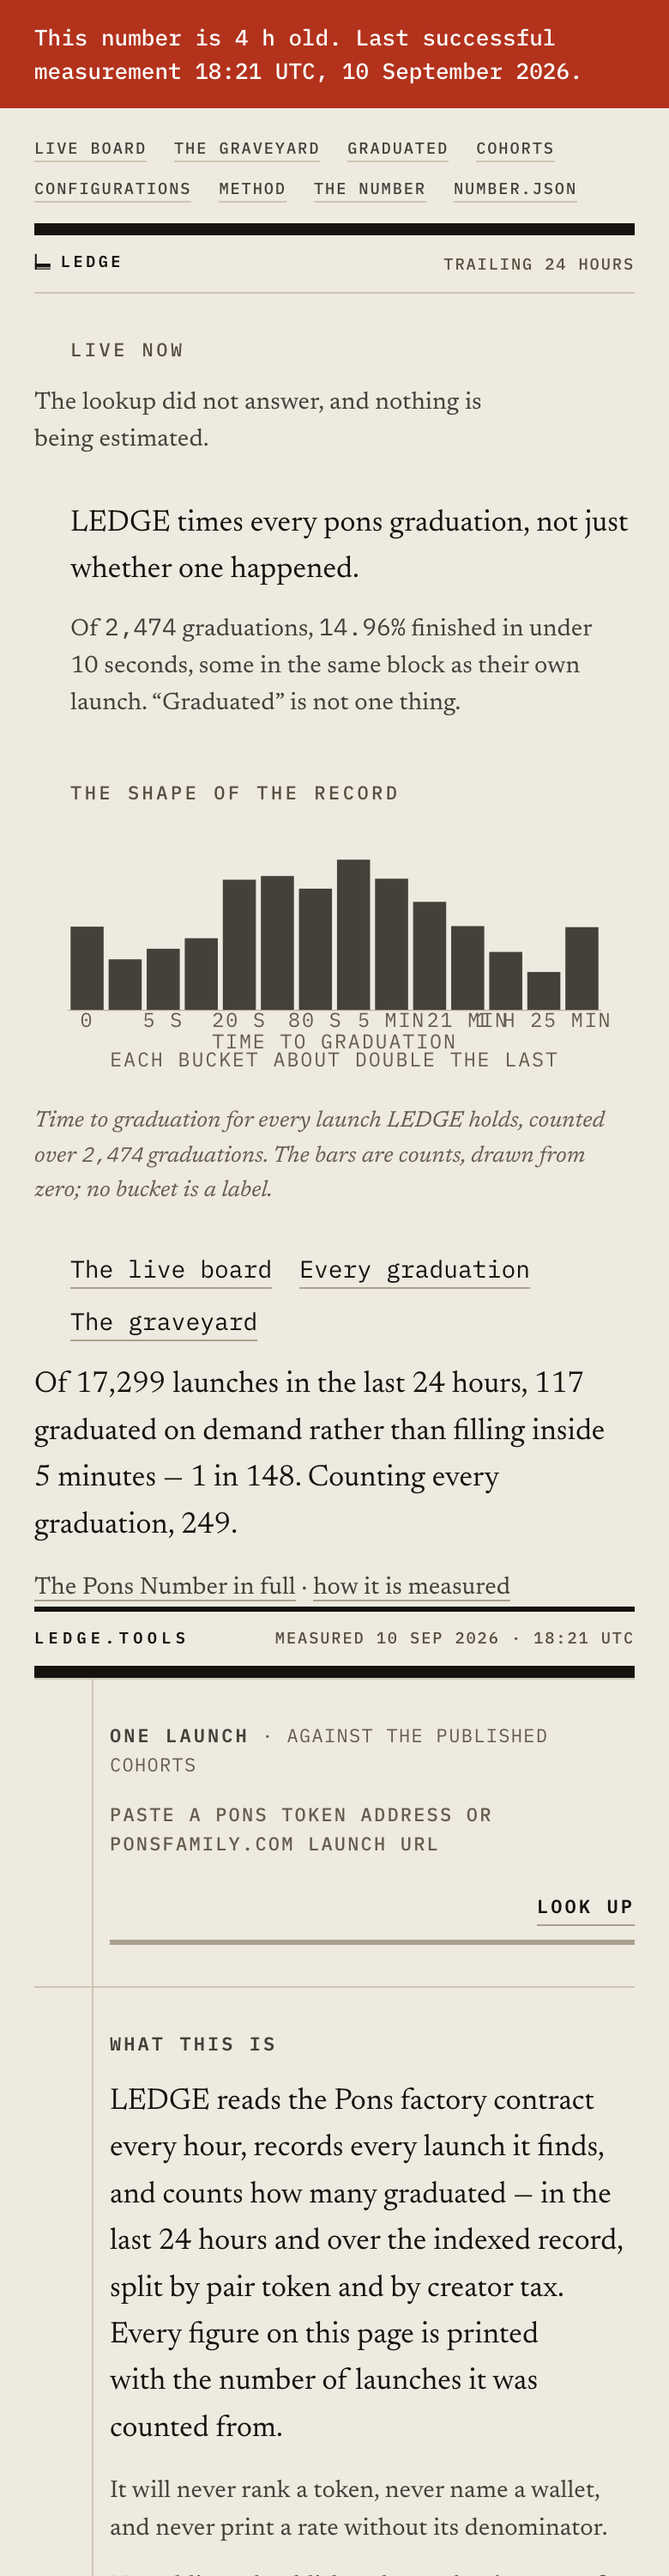
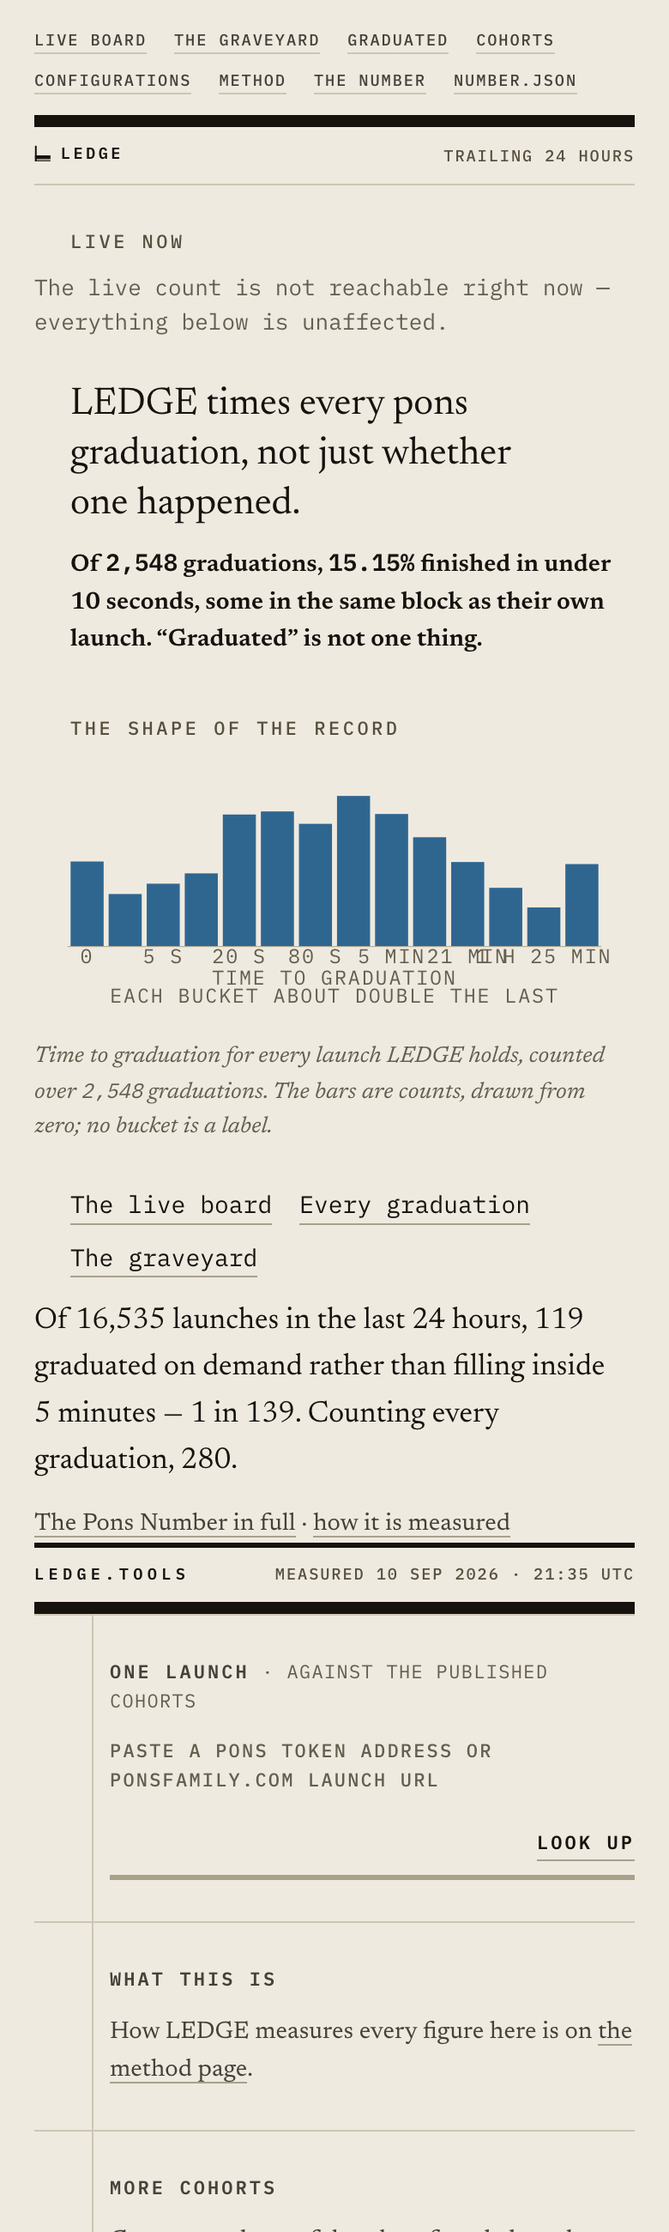
Colour the chart, promote the claim, tick when data lands

diff --git a/site/app/globals.css b/site/app/globals.css
@@ -639,9 +639,13 @@ a:focus-visible,
   max-width: 52ch;
 }
 
-/* The shape of the record. Ink, like every other mark on an instrument page:
-   the bars carry no meaning in their colour, and --stale stays the only
-   colour on this site that means anything. */
+/* The shape of the record: the one place besides the discovery register that
+   spends colour, because this chart is what proves the headline. --fill is
+   the site's single liveness/proof hue (globals.css `--fill`, see the live
+   pulse below); every bar carries it identically -- no bucket is singled out
+   as the bad one (CONSTRAINTS 6, shape.test.tsx "colours no bucket
+   differently from any other"). --stale stays the only colour that means
+   "not current". */
 .shape {
   margin: var(--s-4) 0 0;
 }
@@ -651,7 +655,60 @@ a:focus-visible,
   height: auto;
 }
 .shape-bar {
-  fill: var(--ink-2);
+  fill: var(--fill);
+}
+
+/* A one-time entrance on load: bars grow from a zero baseline, the same
+   baseline the height math already draws from, so the animation cannot say
+   anything the numbers don't. Staggered ~40ms per bar and capped so the
+   whole run lands inside ~500ms even at the histogram's full bucket count
+   (pipeline/stats.py HISTOGRAM_EDGES, 14 edges). No inline style and no
+   per-bucket class -- the stagger is nth-child only, so shape.test.tsx's
+   "class is exactly shape-bar, no fill or style attribute" holds. */
+@media (prefers-reduced-motion: no-preference) {
+  .shape-bar {
+    animation: shape-grow 140ms cubic-bezier(0.2, 0.6, 0.2, 1) both;
+    transform-box: fill-box;
+    transform-origin: bottom;
+  }
+  @keyframes shape-grow {
+    from {
+      transform: scaleY(0);
+    }
+    to {
+      transform: scaleY(1);
+    }
+  }
+  .shape-bar:nth-child(1) {
+    animation-delay: 0ms;
+  }
+  .shape-bar:nth-child(2) {
+    animation-delay: 40ms;
+  }
+  .shape-bar:nth-child(3) {
+    animation-delay: 80ms;
+  }
+  .shape-bar:nth-child(4) {
+    animation-delay: 120ms;
+  }
+  .shape-bar:nth-child(5) {
+    animation-delay: 160ms;
+  }
+  .shape-bar:nth-child(6) {
+    animation-delay: 200ms;
+  }
+  .shape-bar:nth-child(7) {
+    animation-delay: 240ms;
+  }
+  .shape-bar:nth-child(8) {
+    animation-delay: 280ms;
+  }
+  .shape-bar:nth-child(9) {
+    animation-delay: 320ms;
+  }
+  .shape-bar:nth-child(n + 10) {
+    animation-delay: 360ms;
+  }
 }
 
 .eng-line,
@@ -1360,11 +1417,58 @@ footer {
   display: block;
   font-family: var(--font-display);
   font-weight: 400;
-  font-size: clamp(2.25rem, 8vw, 3.75rem);
+  font-size: clamp(2.75rem, 10vw, 4.5rem);
   line-height: 0.9;
   letter-spacing: -0.01em;
   color: var(--fill);
 }
+/* No animation on the figures, deliberately.
+
+   A shallow opacity breathe was tried here and removed. A number that fades
+   out and back for ever does not read as live; it reads as loading, or as
+   something failing to settle, and on a page whose whole argument is that its
+   figures are trustworthy that is the wrong association to hand a stranger in
+   their first two seconds.
+
+   These numbers are already alive in the only way that means anything: they
+   change, every fifteen seconds, because the board behind them refetched. The
+   liveness cue is the dot beside the timestamp, which ticks when a fetch lands
+   -- motion that carries information rather than motion applied to a number
+   that is doing nothing at that moment. */
+/* The tick: a small mark that flashes once when a fetch lands with newer data,
+   keyed on the measurement's own timestamp. It is the liveness cue for the
+   whole block. At rest it sits quiet at the accent colour; when it remounts it
+   plays once and stops. Readers who have asked not to see motion get the mark
+   without the flash, which still reads correctly as a live indicator. */
+.pulse-tick {
+  display: inline-block;
+  width: 0.4em;
+  height: 0.4em;
+  margin-right: 0.5em;
+  border-radius: 50%;
+  background: var(--fill);
+  vertical-align: 0.05em;
+}
+@media (prefers-reduced-motion: no-preference) {
+  .pulse-tick {
+    animation: pulse-tick 900ms cubic-bezier(0.2, 0.6, 0.2, 1) 1;
+  }
+  @keyframes pulse-tick {
+    0% {
+      opacity: 0.25;
+      transform: scale(0.6);
+    }
+    18% {
+      opacity: 1;
+      transform: scale(1.25);
+    }
+    100% {
+      opacity: 1;
+      transform: scale(1);
+    }
+  }
+}
+
 .pulse-caption {
   font-family: var(--font-body);
   font-size: var(--fs-note);
@@ -1391,14 +1495,16 @@ footer {
 }
 .capability-line {
   font-family: var(--font-body);
-  font-size: var(--fs-lede);
+  font-size: 1.4rem;
+  line-height: 1.3;
   color: var(--ink);
   text-wrap: pretty;
 }
 .capability-facts {
   font-family: var(--font-body);
   font-size: var(--fs-note);
-  color: var(--ink-2);
+  font-weight: 600;
+  color: var(--ink);
   margin-top: var(--s-2);
   text-wrap: pretty;
 }

diff --git a/site/components/Live.tsx b/site/components/Live.tsx
@@ -114,8 +114,7 @@ export function LivePulse(): ReactElement {
   if (result !== null && result.kind === "error") {
     return (
       <p className="pulse-quiet">
-        The live count is not reachable right now. Every figure below is from the last
-        indexed measurement and is unaffected.
+        The live count is not reachable right now — everything below is unaffected.
       </p>
     );
   }
@@ -145,6 +144,14 @@ export function LivePulse(): ReactElement {
           <span className="mono is-stale">the live index has not run recently</span>
         ) : (
           <>
+            {/* The one piece of motion on this block, and it carries
+                information rather than decorating a number: the key is the
+                measurement's own timestamp, so React remounts this span and
+                replays its animation exactly when a fetch lands with newer
+                data, and not otherwise. A reader watching sees the tick and
+                knows something arrived. Nothing animates while nothing is
+                happening. Purely decorative, so it is aria-hidden. */}
+            <span key={body.observedAt} className="pulse-tick" aria-hidden="true" />
             as of <span className="mono">{formatAge(ageSeconds)}</span> ago · updates every 15s
           </>
         )}
@@ -265,15 +272,6 @@ export function LiveBoardFull(): ReactElement {
 
       {body !== null ? (
         <>
-          <p className="note note--fine">
-            {formatCount(body.count)} tokens with activity in this window · sorted by{" "}
-            {SORT_LABEL[body.sortedBy]}
-            {" · "}
-            <span className={body.live.stale ? "mono is-stale" : "mono"}>
-              observed {formatAge(Math.max(0, Math.round((Date.now() - Date.parse(body.observedAt)) / 1000)))} ago
-            </span>
-          </p>
-          {stalenessNote(body)}
           <div className="scroller" tabIndex={0} role="group" aria-label="Every curve with activity, sortable">
             <table>
               <caption>
@@ -322,6 +320,15 @@ export function LiveBoardFull(): ReactElement {
               </tbody>
             </table>
           </div>
+          <p className="note note--fine">
+            {formatCount(body.count)} tokens with activity in this window · sorted by{" "}
+            {SORT_LABEL[body.sortedBy]}
+            {" · "}
+            <span className={body.live.stale ? "mono is-stale" : "mono"}>
+              observed {formatAge(Math.max(0, Math.round((Date.now() - Date.parse(body.observedAt)) / 1000)))} ago
+            </span>
+          </p>
+          {stalenessNote(body)}
           {body.rows.length === 0 ? (
             <p className="note note--fine">No launch has activity in the indexed window.</p>
           ) : null}

diff --git a/site/tests/landing-copy.test.ts b/site/tests/landing-copy.test.ts
@@ -71,25 +71,16 @@ const BANNED = [
   "ape",
 ];
 
+/* The visual pass of 2026-09-10 cut the ~150-word "What this is" entry to one
+   line linking to /method: a trader does not care what we refuse to do, and
+   naming our own constraints back at the reader was exactly the essay this
+   pass exists to remove. The assertions that pinned the withdrawn copy's own
+   wording (what it said it measures, the never-list phrasing, the gap
+   sentence) are removed with it -- that copy no longer exists to check. The
+   assertions that guard a CONSTRAINT rather than a sentence (banned words,
+   no emoji, no-verdict) carry forward unchanged onto the one line that
+   replaced it. */
 describe("the What this is entry", () => {
-  it("says what LEDGE measures and how it measures it", () => {
-    expect(WHAT_THIS_IS).toContain("reads the Pons factory contract every hour");
-    expect(WHAT_THIS_IS).toContain("counts how many graduated");
-    expect(WHAT_THIS_IS).toContain("the number of launches it was counted from");
-  });
-
-  it("states the never-list, three items, plainly", () => {
-    expect(WHAT_THIS_IS).toContain("never rank a token");
-    expect(WHAT_THIS_IS).toContain("never name a wallet");
-    expect(WHAT_THIS_IS).toContain("never print a rate without its denominator");
-  });
-
-  it("states the gap as a fact, not as a claim about LEDGE", () => {
-    expect(WHAT_THIS_IS).toContain(
-      "No public tool publishes the graduation rate of launches by configuration; this does.",
-    );
-  });
-
   it("passes the banned-words list", () => {
     const lower = WHAT_THIS_IS.toLowerCase();
     for (const banned of BANNED) {

diff --git a/site/app/page.tsx b/site/app/page.tsx
@@ -198,19 +198,13 @@ const exFastOneIn =
           <Lookup />
         </LedgerEntry>
 
+        {/* The ~150-word entry this used to be named our own constraints back at a
+            reader who does not care what we refuse to do (design critique,
+            2026-09-10). What it measures and how is one line, linked, on
+            /method instead. */}
         <LedgerEntry id="h-what" heading="What this is">
-          <p className="lede">
-            LEDGE reads the Pons factory contract every hour, records every launch it finds, and
-            counts how many graduated — in the last 24 hours and over the indexed record, split by
-            pair token and by creator tax. Every figure on this page is printed with the number of
-            launches it was counted from.
-          </p>
           <p className="note">
-            It will never rank a token, never name a wallet, and never print a rate without its
-            denominator.
-          </p>
-          <p className="note">
-            No public tool publishes the graduation rate of launches by configuration; this does.
+            How LEDGE measures every figure here is on <Link href="/method">the method page</Link>.
           </p>
         </LedgerEntry>
 
